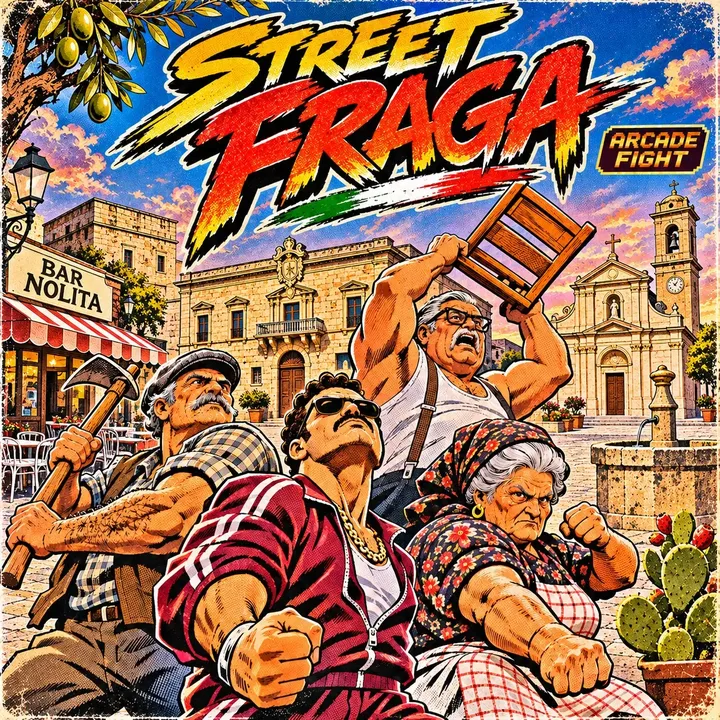
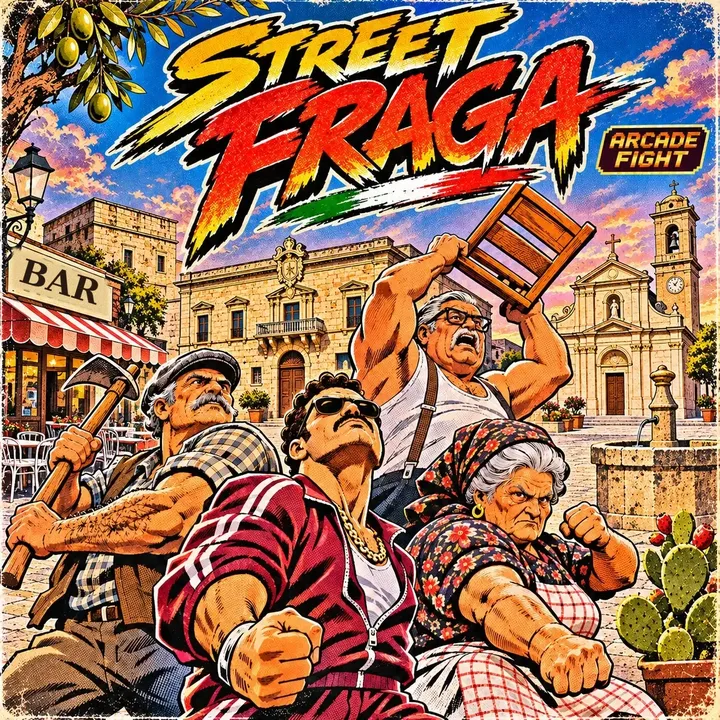
Copertina: coperto il nome del bar sull'insegna
Claude-Session: https://claude.ai/code/session_01Y42gCRLsAFDs62bqGmB9UG

Changed region(s): [[0.0, 0.3361, 0.1528, 0.4583]]

diff --git a/docs/crediti.md b/docs/crediti.md
@@ -5,4 +5,4 @@
 - **Musica** — Wolfgang Amadeus Mozart, "Rondò alla turca" (Sonata K. 331) e "Piccola serenata notturna" (K. 525). Composizioni di pubblico dominio. Arrangiamento elettronico originale scritto per questo gioco e suonato dal browser con Web Audio (`src/gioco/audio.ts`). Nessun file audio esterno.
 - **Effetti sonori** — generati dal codice con Web Audio. Nessun file esterno.
 - **Disegni** (lottatori, chiesa, logo) — originali, in SVG, creati per questo gioco. La chiesa è disegnata in modo evocativo, ispirata a una foto di riferimento ("Ph Salvo Lupo") che non è inclusa nel gioco.
-- **Copertina** (`public/copertina.webp`) — immagine fornita dal gestore del gioco, usata nella schermata iniziale. Da verificare con il gestore: nell'immagine compaiono l'insegna di un bar reale ("Bar Nolita"), la scritta in inglese "Arcade Fight" e un logo in stile simile a quello di un videogioco esistente.
+- **Copertina** (`public/copertina.webp`) — immagine fornita dal gestore del gioco, usata nella schermata iniziale. Il nome del bar sull'insegna è stato coperto (resta solo "BAR"), perché il gioco non cita negozi reali. Restano da decidere con il gestore la scritta in inglese "Arcade Fight" e lo stile del logo, simile a quello di un videogioco esistente.
